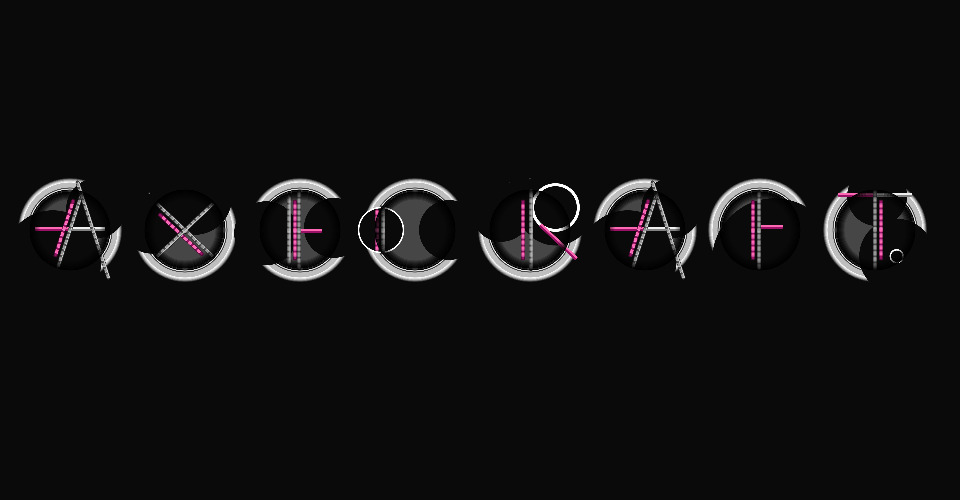
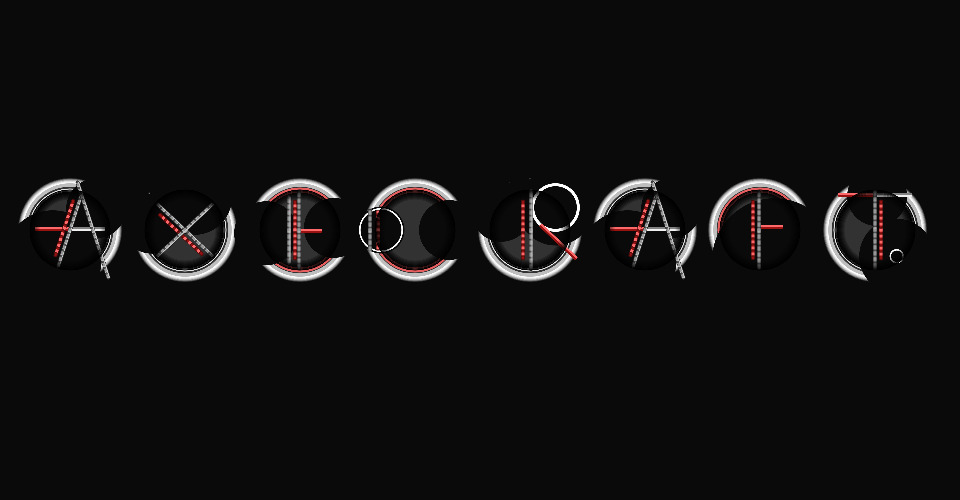
Final Touches, bug fixing etc.

diff --git a/letters.js b/letters.js
@@ -13,7 +13,7 @@ const alphabet = {
     "cirStroke": 1.5,
     "coverCir": 0,
     "arcLen": 0,
-    "ringColour": 0,
+    "ringColour": 59,
   },
   "A": {
     "cirRot": 320.4,
@@ -60,23 +60,24 @@ const alphabet = {
     "rectGap": -4,
     "rectLen": 0,
     "rect3Angle": -90,
-    "rect3Y": 0
+    "rect3Y": 0,
+    "arcLen": 0,
   },
   "D": {
-    "cirRot": 118.8,
-    "rect1Angle": 180,
-    "rect1X": 44,
-    "rect3Angle": -1.79,
-    "rect3Y": 0,
+    "cirRot": 136.8,
+    "ringColour": 0,
     "cirRad": 0,
-    "rect2X": 44,
-    "rectLen": 0,
-    "rectGap": 3,
-    "cirStroke": 1.5,
-    "rectWidth": 3,
+    "cirStroke": 0,
     "coverCir": 0,
+    "rect1X": 31,
+    "rectWidth": 0,
+    "rect1Angle": 180,
+    "rect2X": 46,
+    "rectGap": 3,
+    "rectLen": 0,
+    "rect3Angle": 0,
+    "rect3Y": 0,
     "arcLen": 0,
-    "ringColour": 59,
   },
   "E": {
     "cirRot": 356.4,
@@ -128,19 +129,19 @@ const alphabet = {
   },
   "H": {
     "cirRot": 324,
-    "rect1Angle": 180,
-    "rect1X": 71,
-    "rect3Angle": 0,
-    "rect3Y": 0,
-    "cirRad": 0,
-    "rect2X": 36,
-    "rectLen": 49,
-    "rectGap": 3,
-    "cirStroke": 1.5,
-    "rectWidth": 3,
-    "coverCir": 0,
-    "arcLen": 0,
     "ringColour": 0,
+    "cirRad": 0,
+    "cirStroke": 1.5,
+    "coverCir": 24,
+    "rect1X": 69,
+    "rectWidth": 2.94,
+    "rect1Angle": 180,
+    "rect2X": 33,
+    "rectGap": 3,
+    "rectLen": 38,
+    "rect3Angle": 0,
+    "rect3Y": 6,
+    "arcLen": 0,
   },
   "I": {
     "cirRot": 360,
@@ -203,7 +204,8 @@ const alphabet = {
     "rectGap": -3,
     "rectLen": -43,
     "rect3Angle": 0,
-    "rect3Y": -36
+    "rect3Y": -36,
+    "arcLen": 0,
   },
   "M": {
     "cirRot": 306,
@@ -334,20 +336,6 @@ const alphabet = {
     "ringColour": 0,
   },
   "U": {
-    // "cirRot": 210,
-    // "rect1Angle": 180,
-    // "rect1X": 34,
-    // "rect3Angle": -61.2,
-    // "rect3Y": -14,
-    // "cirRad": 0,
-    // "rect2X": 53,
-    // "rectLen": 32,
-    // "rectGap": 15,
-    // "cirStroke": 1.5,
-    // "rectWidth": 0,
-    // "coverCir": 22,
-    // "arcLen": 0,
-    // "ringColour": 0,
     "cirRot": 208.79,
     "ringColour": 59,
     "cirRad": 0,
@@ -360,7 +348,8 @@ const alphabet = {
     "rectGap": 42,
     "rectLen": 0,//50
     "rect3Angle": 28.8,
-    "rect3Y": -40
+    "rect3Y": -40,
+    "arcLen": 0,
   },
   "V": {
     "cirRot": 360,

diff --git a/draw_letters.js b/draw_letters.js
@@ -57,7 +57,7 @@ function drawLetter(letterData) {
   }
 
   //Blade Background (Grey Background)
-  fill(55);
+  fill(50);
   stroke(190);
   strokeWeight(3.5);
   circle(50, 100, 90 - arcLen);
@@ -123,6 +123,10 @@ function drawLetter(letterData) {
     //White Arcs
     arc(0, 0, 115, 115, 0 - arcLen, 0 + arcLen);
     arc(0, 0, 115, 115, 180 - arcLen, 180 + arcLen);
+
+    arc(0, 0, 120, 120, 10 - arcLen, 10 + arcLen);
+    arc(0, 0, 120, 120, 190 - arcLen, 190 + arcLen);
+
     stroke(lightPink);
     //Coloured Arcs
     arc(0, 0, 115, 115, 0, 0 + 5 + arcLen);
@@ -183,6 +187,7 @@ function drawLetter(letterData) {
       rect(3 + rectGap, i * 6 - 2, 3, 1);
       rect(3 + rectGap, -i * 6 - 2, 3, 1);
     }
+
     //Grey Rectangle
     fill(baseGrey + 60);
     rect(2 - rectGap, 0, 0.5, rect2X + 25, 5);
@@ -240,7 +245,7 @@ function drawLetter(letterData) {
 
 //Interpolation Reference
 let reference = {
-  "cirRot": 306,
+  "cirRot": 0,
   "rect1Angle": 21.59,
   "rect1X": 30,
   "rect3Angle": 0,
@@ -252,7 +257,7 @@ let reference = {
   "rectWidth": 0,
   "cirStroke": 1.5,
   "coverCir": 0,
-  "arcLen": 20,
+  "arcLen": 30,
   "ringColour": 59,
 };
 
@@ -285,7 +290,6 @@ function interpolate_letter(percent, oldObj, newObj) {
   new_letter["rectWidth"] = map(percent, 0, 100, oldObj["rectWidth"], newObj["rectWidth"]);
   new_letter["cirStroke"] = map(percent, 0, 100, oldObj["cirStroke"], newObj["cirStroke"]);
   new_letter["ringColour"] = map(percent, 0, 100, oldObj["ringColour"], newObj["ringColour"]);
-  // new_letter["coverCir"] = map(percent, 0, 100, oldObj["coverCir"], newObj["coverCir"]);
   return new_letter;
 }
 

diff --git a/README.md b/README.md
@@ -16,6 +16,7 @@ Each of my letters is composed from 3 black circles which cut out the silver axe
   - **cirRad** : The Radius of the white inner circle.
   - **cirStroke** : The stroke of the white inner circle.
   - **coverCir** : Radius of 3rd outer black circle.
+  - **ringColor** : The Colour of the inside ring to show whether the outer blade is a part of the letter or not.
 #### Rectangle 1 Parameters:
   - **rect1X** : X Position of rectangle 1. Also changes the size of the second black outer circle.
   - **rectWidth** : Changes the width of rectangle 1.
@@ -27,6 +28,9 @@ Each of my letters is composed from 3 black circles which cut out the silver axe
   - **rectLen** : Length of rectangle 3, negative value makes one rect, positive value makes two.
   - **rect3Angle** : Changes rotation of rectangle 3, if it's split into two they will rotate in opposite directions.
   - **rect3Y** : Changes both Y Positions of rect 3.
+
+#### Interpolation Parameters:
+  - **arcLen** : Appears in relation to the circle Rotation parameter. The larger the distance the circle has to turn, the bigger the 'motion' arcs. Also changes the width of the inner blade ring during interpolation.
 
 ### Design Process
 
